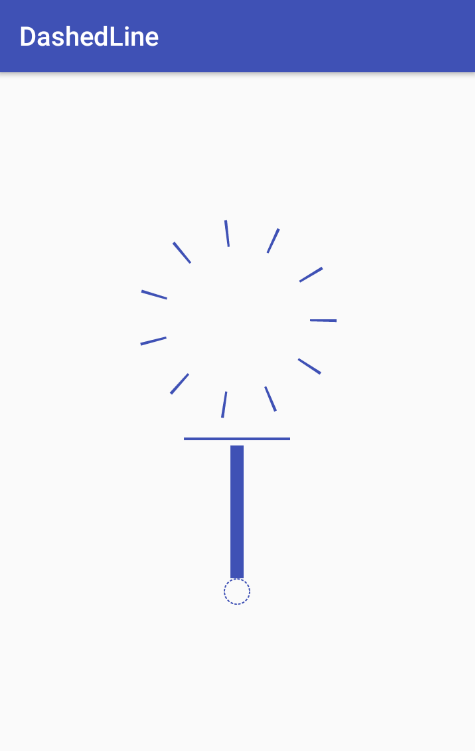
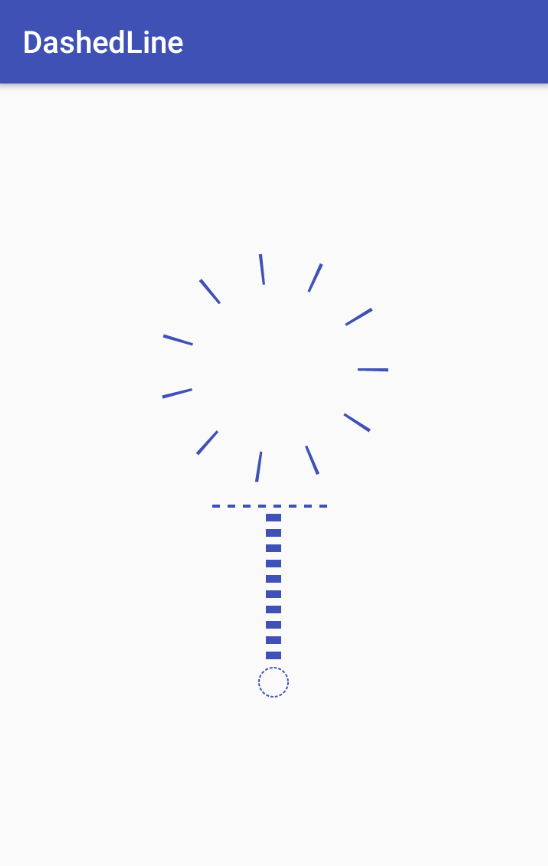
修复 直线虚线无法绘制成虚线的问题

Changed region(s): [[0.4126, 0.5819, 0.5305, 0.7963], [0.0295, 0.0306, 0.3242, 0.0613]]

diff --git a/dashedline/src/main/java/com/linsh/dashedline/DashedLine.java b/dashedline/src/main/java/com/linsh/dashedline/DashedLine.java
@@ -5,6 +5,7 @@ import android.content.Context;
 import android.content.res.TypedArray;
 import android.graphics.Canvas;
 import android.graphics.Paint;
+import android.graphics.Path;
 import android.util.AttributeSet;
 
 /**
@@ -13,19 +14,26 @@ import android.util.AttributeSet;
 
 public class DashedLine extends BaseDashedLine {
 
+    private Path mPath;
     private int mOrientation;
 
     public DashedLine(Context context) {
         super(context);
+        init();
     }
 
     public DashedLine(Context context, AttributeSet attrs) {
         super(context, attrs);
+        init();
     }
 
     @Override
     protected void initAttr(TypedArray typedArray) {
         mOrientation = typedArray.getInt(R.styleable.DashedLine_dashOrientation, 0);
+    }
+
+    private void init() {
+        mPath = new Path();
     }
 
     public void setOrientation(Orientation orientation) {
@@ -46,11 +54,15 @@ public class DashedLine extends BaseDashedLine {
 
         mPaint.setStrokeWidth(mStrokeWidth != 0 ? mStrokeWidth : (mOrientation == 1 ? width : height));
 
+        mPath.rewind();
         if (mOrientation == 1) { /// 垂直
-            canvas.drawLine(width / 2, 0, width / 2, height, paint);
+            mPath.moveTo(width / 2, 0);
+            mPath.lineTo(width / 2, height);
         } else { /// 水平
-            canvas.drawLine(0, height / 2, width, height / 2, paint);
+            mPath.moveTo(0, height / 2);
+            mPath.lineTo(width, height / 2);
         }
+        canvas.drawPath(mPath, paint);
     }
 
     public enum Orientation {

diff --git a/dashedline/src/main/java/com/linsh/dashedline/DashedCircleLine.java b/dashedline/src/main/java/com/linsh/dashedline/DashedCircleLine.java
@@ -54,7 +54,7 @@ public class DashedCircleLine extends BaseDashedLine {
         mRectF.left = (width - min) / 2f + strokeOffset;
         mRectF.bottom = (height + min) / 2f - strokeOffset;
         mRectF.right = (width + min) / 2f - strokeOffset;
-        canvas.drawOval(mRectF, mPaint);
+        canvas.drawOval(mRectF, paint);
     }
 
     @Override
